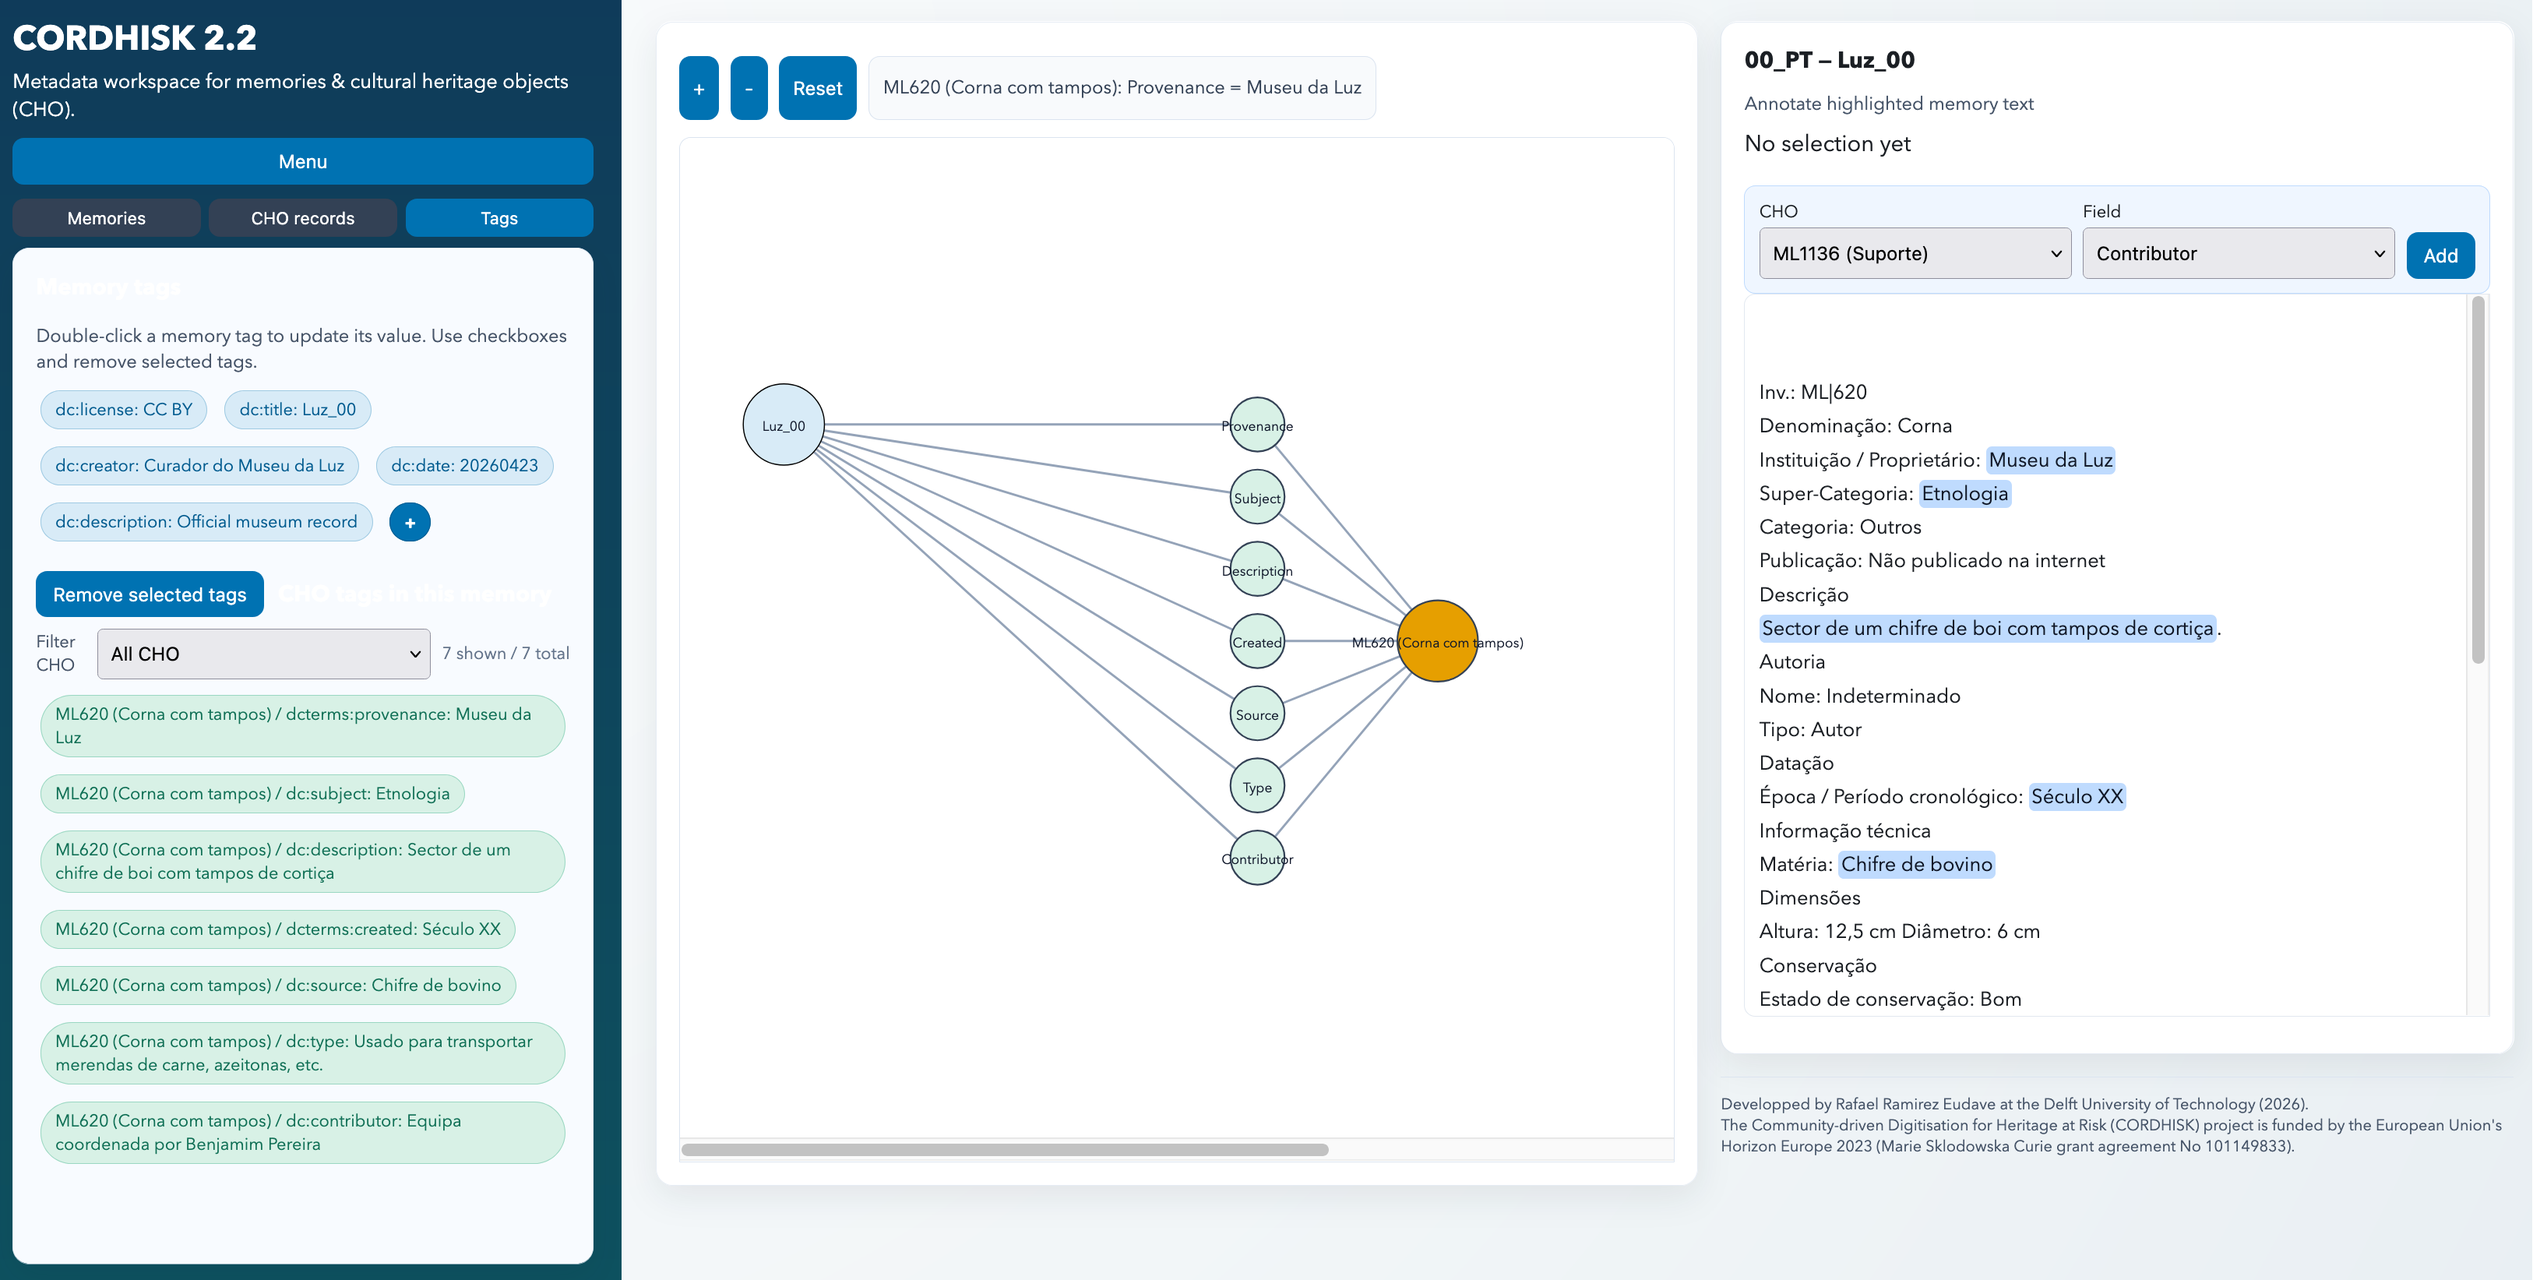
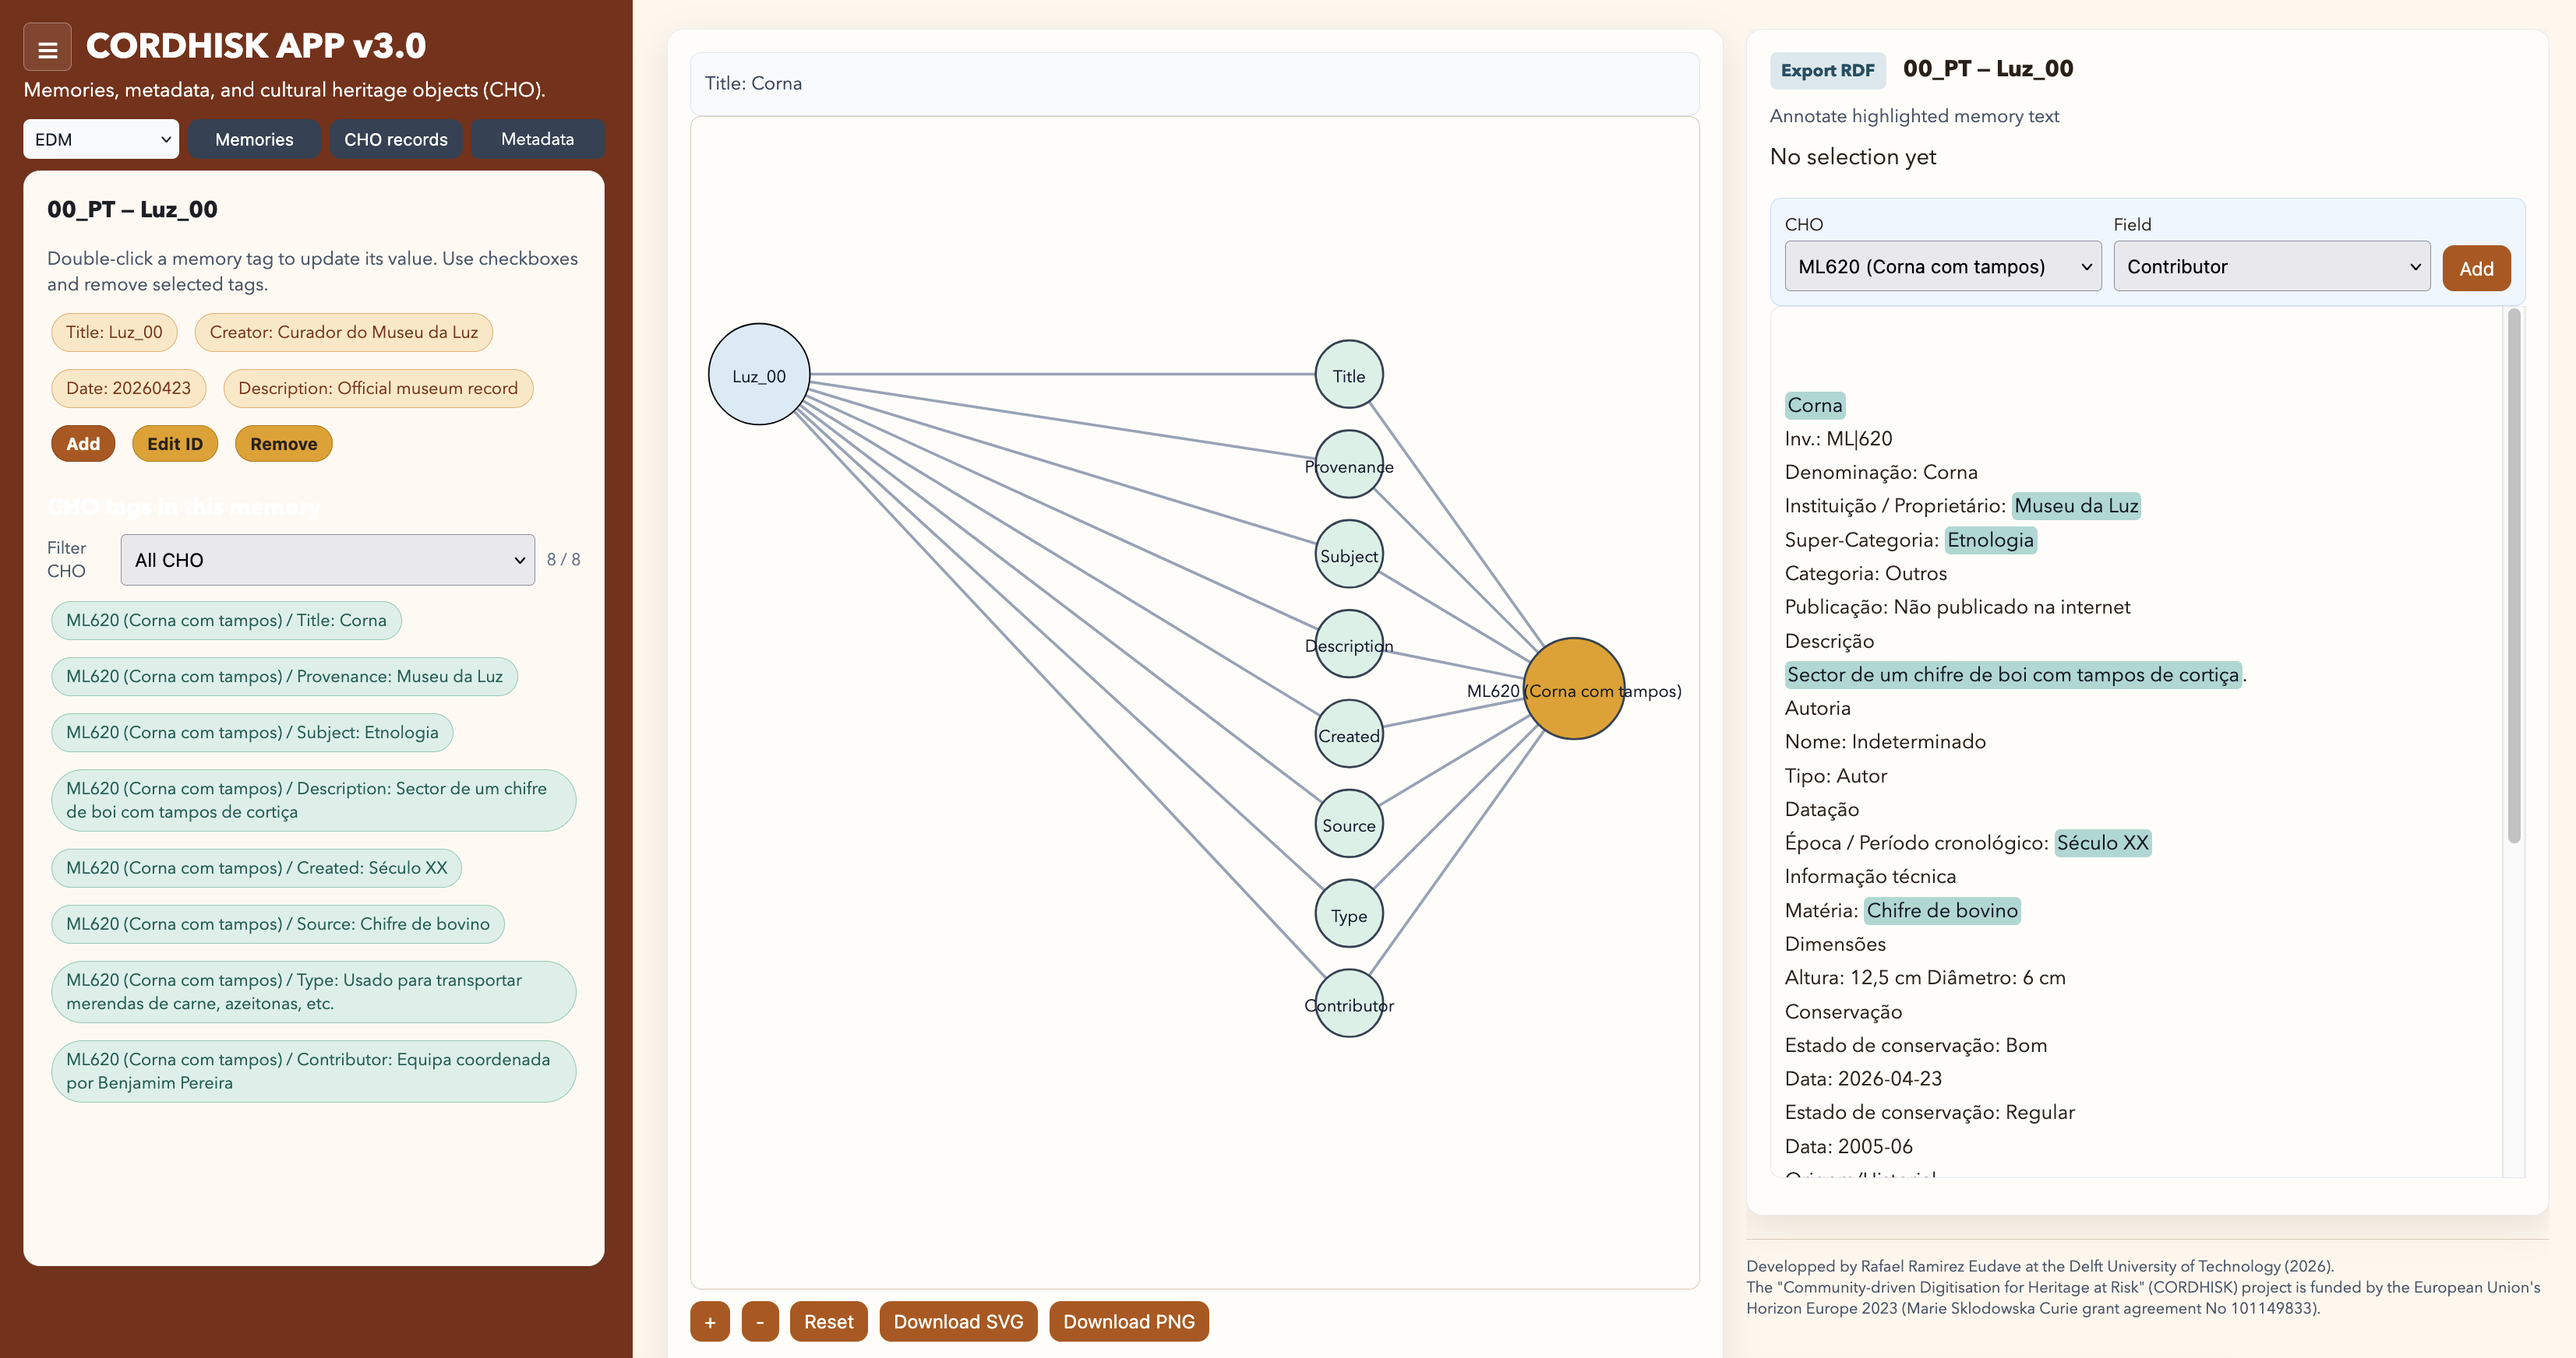
Made changes in main interface and fixed navigation

diff --git a/services/web_templates.py b/services/web_templates.py
@@ -112,6 +112,11 @@ HTML_TEMPLATE = """
       .sidebar-list { list-style: none; margin: 0; padding: 0; }
       .sidebar-list li { display: flex; align-items: center; justify-content: space-between; gap: 8px; margin-bottom: 6px; }
       .sidebar-list a { color: #2b2118; display: inline-block; max-width: 340px; overflow: hidden; text-overflow: ellipsis; white-space: nowrap; }
+      .sr-only { position: absolute; width: 1px; height: 1px; padding: 0; margin: -1px; overflow: hidden; clip: rect(0, 0, 0, 0); white-space: nowrap; border: 0; }
+      .record-identity { display: flex; align-items: baseline; gap: 10px; flex-wrap: wrap; margin: 0 0 10px; }
+      .record-identity h4 { margin: 0; }
+      .record-identity small { color: #6b5b4d; font-size: 11px; }
+      .record-identity .record-label { color: #6b5b4d; font-size: 10px; font-weight: 700; }
       .mini-delete { width: 24px; min-width: 24px; height: 24px; line-height: 24px; padding: 0; border-radius: 999px; background: #facc15; color: #1f2937; font-weight: 700; font-size: 14px; }
       .sidebar-action { margin-bottom: 12px; }
       .sidebar-action button { width: 100%; background: #0ea5e9; }
@@ -177,11 +182,16 @@ HTML_TEMPLATE = """
       .annotation-title { font-weight: 400; }
       .memory-title { margin: 0 0 10px; font-size: 1em; font-weight: 700; }
       .metadata-helper { color: #475569; font-size: 13px; margin: 0 0 8px; }
+      .cho-report-section { margin-top: 18px; }
+      .cho-report-section h5 { margin: 0 0 6px; color: #7c2d12; font-size: 14px; }
+      .cho-report-table { width: 100%; border-collapse: collapse; font-size: 12px; }
+      .cho-report-table th, .cho-report-table td { padding: 6px 4px; text-align: left; border-bottom: 1px solid #ead9c8; vertical-align: top; }
+      .cho-report-table th:first-child { width: 42px; }
       .memory-tags-title { color: #1b1f24; }
       .right-panel { display: flex; flex-direction: column; height: 100%; min-height: 0; overflow: hidden; }
-      .right-panel .metadata-card { order: 1; }
+      .right-panel .metadata-card { order: 1; position: static; flex: 1 1 auto; min-height: 0; overflow-y: auto; }
       .right-panel .memory-text-card { order: 2; }
-      .right-panel .project-footer-note { order: 3; }
+      .right-panel .project-footer-note { order: 3; flex: 0 0 auto; }
       .memory-text-card { flex: 1 1 auto; min-height: 0; display: flex; flex-direction: column; }
       .memory-text-card form { display: flex; flex-direction: column; flex: 1; min-height: 0; }
       .memory-text-scroll { flex: 1; min-height: 0; max-height: none; overflow-y: auto; }
@@ -297,7 +307,7 @@ HTML_TEMPLATE = """
             {% if selected_memory %}
             <div id="memory-tags-panel">
               <div class="cho-tags-head memory-tags-title">
-                <h4>{{ selected_memory.custom_id or selected_memory.id }} — {{ selected_memory.title or ('Memory ' ~ selected_memory.id) }}</h4>
+                <h4>Memory metadata</h4>
               </div>
               <form action="/memories/{{ selected_memory.id }}/edit" method="post" id="memory-metadata-form">
                 <input type="hidden" name="focus_cho" value="{{ focus_cho or '' }}">
@@ -415,7 +425,9 @@ HTML_TEMPLATE = """
             <div class="card memory-text-card">
               <div class="workspace-heading">
                 <a class="rdf-link" href="/export/memory/{{ selected_memory.id }}.rdf">Export RDF</a>
-                <h4 class="memory-title">{{ selected_memory.custom_id or selected_memory.id }} — {{ selected_memory.title or ('Memory ' ~ selected_memory.id) }}</h4>
+                <div class="record-identity">
+                  <h4 class="memory-title"><span class="record-label">ID:</span> {{ selected_memory.custom_id or selected_memory.id }} <span class="record-label">Name:</span> {{ selected_memory.title or ('Memory ' ~ selected_memory.id) }}</h4>
+                </div>
               </div>
               <form action="/memories/{{ selected_memory.id }}/annotate" method="post" id="memory-annotation-form">
                 <p class="annotation-title metadata-helper">Annotate highlighted memory text</p>
@@ -455,36 +467,41 @@ HTML_TEMPLATE = """
                 <input type="hidden" name="focus_cho" value="{{ focus_cho or '' }}">
               </form>
             </div>
-            <p class="project-footer-note">
-              Developped by Rafael Ramirez Eudave at the Delft University of Technology (2026).<br>
-              The "Community-driven Digitisation for Heritage at Risk" (CORDHISK) project is funded by the European Union's Horizon Europe 2023 (Marie Sklodowska Curie grant agreement No 101149833).
-            </p>
             {% endif %}
             {% if focus_cho %}
             <div class="card metadata-card">
               {% if selected_cho_details %}
                 <div class="workspace-heading">
                   <a class="rdf-link" href="/export/cho?cho_id={{ selected_cho_details.label }}&mode=all">Export RDF</a>
-                  <h4>CHO {{ selected_cho_details.label }} — {{ selected_cho_details.title }}</h4>
-                </div>
-                <p class="metadata-helper">Metadata grouped by memory for the selected CHO.</p>
-                {% for group in selected_cho_details.memories %}
-                <div class="cho-memory-group">
-                  <p><strong><a href="/?memory_id={{ group.memory_id }}&filter_cho={{ selected_cho_details.label }}">{{ group.memory_label }}</a></strong></p>
-                  <div class="tag-list">
-                    {% for tag in group.tags %}
-                    <span class="pill cho">{{ tag.display_field }}: {{ tag.value }}</span>
-                    {% endfor %}
+                  <div class="record-identity">
+                    <h4><span class="record-label">ID:</span> {{ selected_cho_details.label }} <span class="record-label">Name:</span> {{ selected_cho_details.title }}</h4>
                   </div>
                 </div>
-                {% else %}
-                <p>No metadata found for this CHO in the current memories.</p>
+                {% for section in cho_report_sections %}
+                <section class="cho-report-section">
+                  <h5>{{ section.display_field }}</h5>
+                  <table class="cho-report-table">
+                    <thead><tr><th>N</th><th>Instance</th><th>Related memories</th></tr></thead>
+                    <tbody>
+                    {% for row in section.rows %}
+                    <tr><td>{{ row.count }}</td><td>{{ row.value }}</td><td>{% for memory in row.memories %}<a href="/?memory_id={{ memory.id }}&filter_cho={{ selected_cho_details.label }}">{{ memory.label }}</a>{% if not loop.last %}, {% endif %}{% endfor %}</td></tr>
+                    {% endfor %}
+                    </tbody>
+                  </table>
+                </section>
                 {% endfor %}
+                {% if not cho_report_sections %}
+                <p>No metadata found for this CHO in the current memories.</p>
+                {% endif %}
               {% elif focus_cho %}
                 <p>Select a CHO from the sidebar or graph to view CHO metadata grouped by memory.</p>
               {% endif %}
             </div>
             {% endif %}
+            <p class="project-footer-note">
+              Developped by Rafael Ramirez Eudave at the Delft University of Technology (2026).<br>
+              The "Community-driven Digitisation for Heritage at Risk" (CORDHISK) project is funded by the European Union's Horizon Europe 2023 (Marie Sklodowska Curie grant agreement No 101149833).
+            </p>
           </div>
         </div>
         {% else %}
@@ -1027,7 +1044,7 @@ HTML_TEMPLATE = """
             memoriesPanel.classList.toggle('hidden', !showMemories);
             chosPanel.classList.toggle('hidden', !showChos);
             tagsPanel.classList.toggle('hidden', !showTags);
-            showMemoriesBtn.classList.toggle('active', showMemories);
+            showMemoriesBtn.classList.toggle('active', showMemories || showTags);
             showChosBtn.classList.toggle('active', showChos);
           };
           showMemoriesBtn.addEventListener('click', function () { selectList('memories'); });
@@ -1363,9 +1380,6 @@ METADATA_SPACES_TEMPLATE = """
   </head>
   <body>
     <main class="page{% if embedded %} embedded-page{% endif %}">
-      <header class="topbar">
-        <div><h1>Medatata Spaces Management</h1><p class="intro">Check, edit, import, and download the metadata schemes available to CORDHISK.</p></div>
-      </header>
       {% if notice %}<div class="notice">{{ notice }}</div>{% endif %}
       {% if error %}<div class="notice error">{{ error }}</div>{% endif %}
       <div class="layout">
@@ -1391,7 +1405,6 @@ METADATA_SPACES_TEMPLATE = """
         </section>
         {% endif %}
         <section class="panel">
-          <h2>{{ "Edit Metadata Space" if editing else "Create Metadata Space" }}</h2>
           <form id="metadata-space-form" method="post" action="/metadata-spaces"{% if embedded %} target="_top"{% endif %}>
             <input type="hidden" name="original_name" value="{{ editing.name if editing else "" }}">
             <input type="hidden" name="replace" value="1">

diff --git a/cordhisk.py b/cordhisk.py
@@ -748,6 +748,45 @@ def _build_selected_cho_details(focus_cho, metadata_space=None):
   }
 
 
+def _build_cho_report_sections(focus_cho, metadata_space=None):
+  cho = _find_cho(focus_cho)
+  if cho is None:
+    return []
+  cho_refs = {str(cho.id)}
+  if cho.custom_id:
+    cho_refs.add(str(cho.custom_id))
+  memories = session.query(Memory).order_by(Memory.id).all()
+  metadata_by_memory_id = _build_metadata_cache(memories, metadata_space)
+  report_values = {}
+  for memory in memories:
+    memory_label = memory.custom_id or str(memory.id)
+    for item in metadata_by_memory_id.get(memory.id, []):
+      if item.get("type") != MetadataType.CHO.value or str(item.get("cho")) not in cho_refs:
+        continue
+      field = item.get("field", "")
+      value = item.get("value", "")
+      if not field:
+        continue
+      row = report_values.setdefault(field, {}).setdefault(value, {"count": 0, "memories": {}})
+      row["count"] += 1
+      row["memories"][memory.id] = memory_label
+  return [
+    {
+      "field": field,
+      "display_field": _graph_metadata_label(field),
+      "rows": [
+        {
+          "value": value,
+          "count": row["count"],
+          "memories": [{"id": memory_id, "label": label} for memory_id, label in row["memories"].items()],
+        }
+        for value, row in sorted(values.items(), key=lambda item: (-item[1]["count"], item[0].casefold()))
+      ],
+    }
+    for field, values in sorted(report_values.items())
+  ]
+
+
 def _strip_memory_metadata_block(text):
     return re.sub(
         r'===\s*MEMORY METADATA START\s*===.*?===\s*MEMORY METADATA END\s*===\s*',
@@ -1063,6 +1102,7 @@ def create_app(testing=False):
     nodes, edges = _build_graph_data(memory_id, focus_cho, metadata_space)
     graph_height = _graph_height(nodes)
     selected_cho_details = _build_selected_cho_details(focus_cho, metadata_space) if focus_cho else None
+    cho_report_sections = _build_cho_report_sections(focus_cho, metadata_space) if focus_cho else []
     return render_template_string(
       HTML_TEMPLATE,
       memories=memories,
@@ -1085,6 +1125,7 @@ def create_app(testing=False):
       graph_height=graph_height,
       focus_memory=f"memory:{memory_id}" if memory_id else "",
       selected_cho_details=selected_cho_details,
+      cho_report_sections=cho_report_sections,
       notice_level=notice_level,
       notice_message=notice_message,
       metadata_spaces=list_spaces(),
@@ -1583,6 +1624,7 @@ def create_app(testing=False):
       graph_height=graph_height,
       focus_memory=f"memory:{memory_id}" if memory_id else "",
       selected_cho_details=selected_cho_details,
+      cho_report_sections=[],
       notice_level=request.args.get("notice_level", "").strip() or "success",
       notice_message=request.args.get("notice_message", "").strip(),
       metadata_spaces=list_spaces(),
